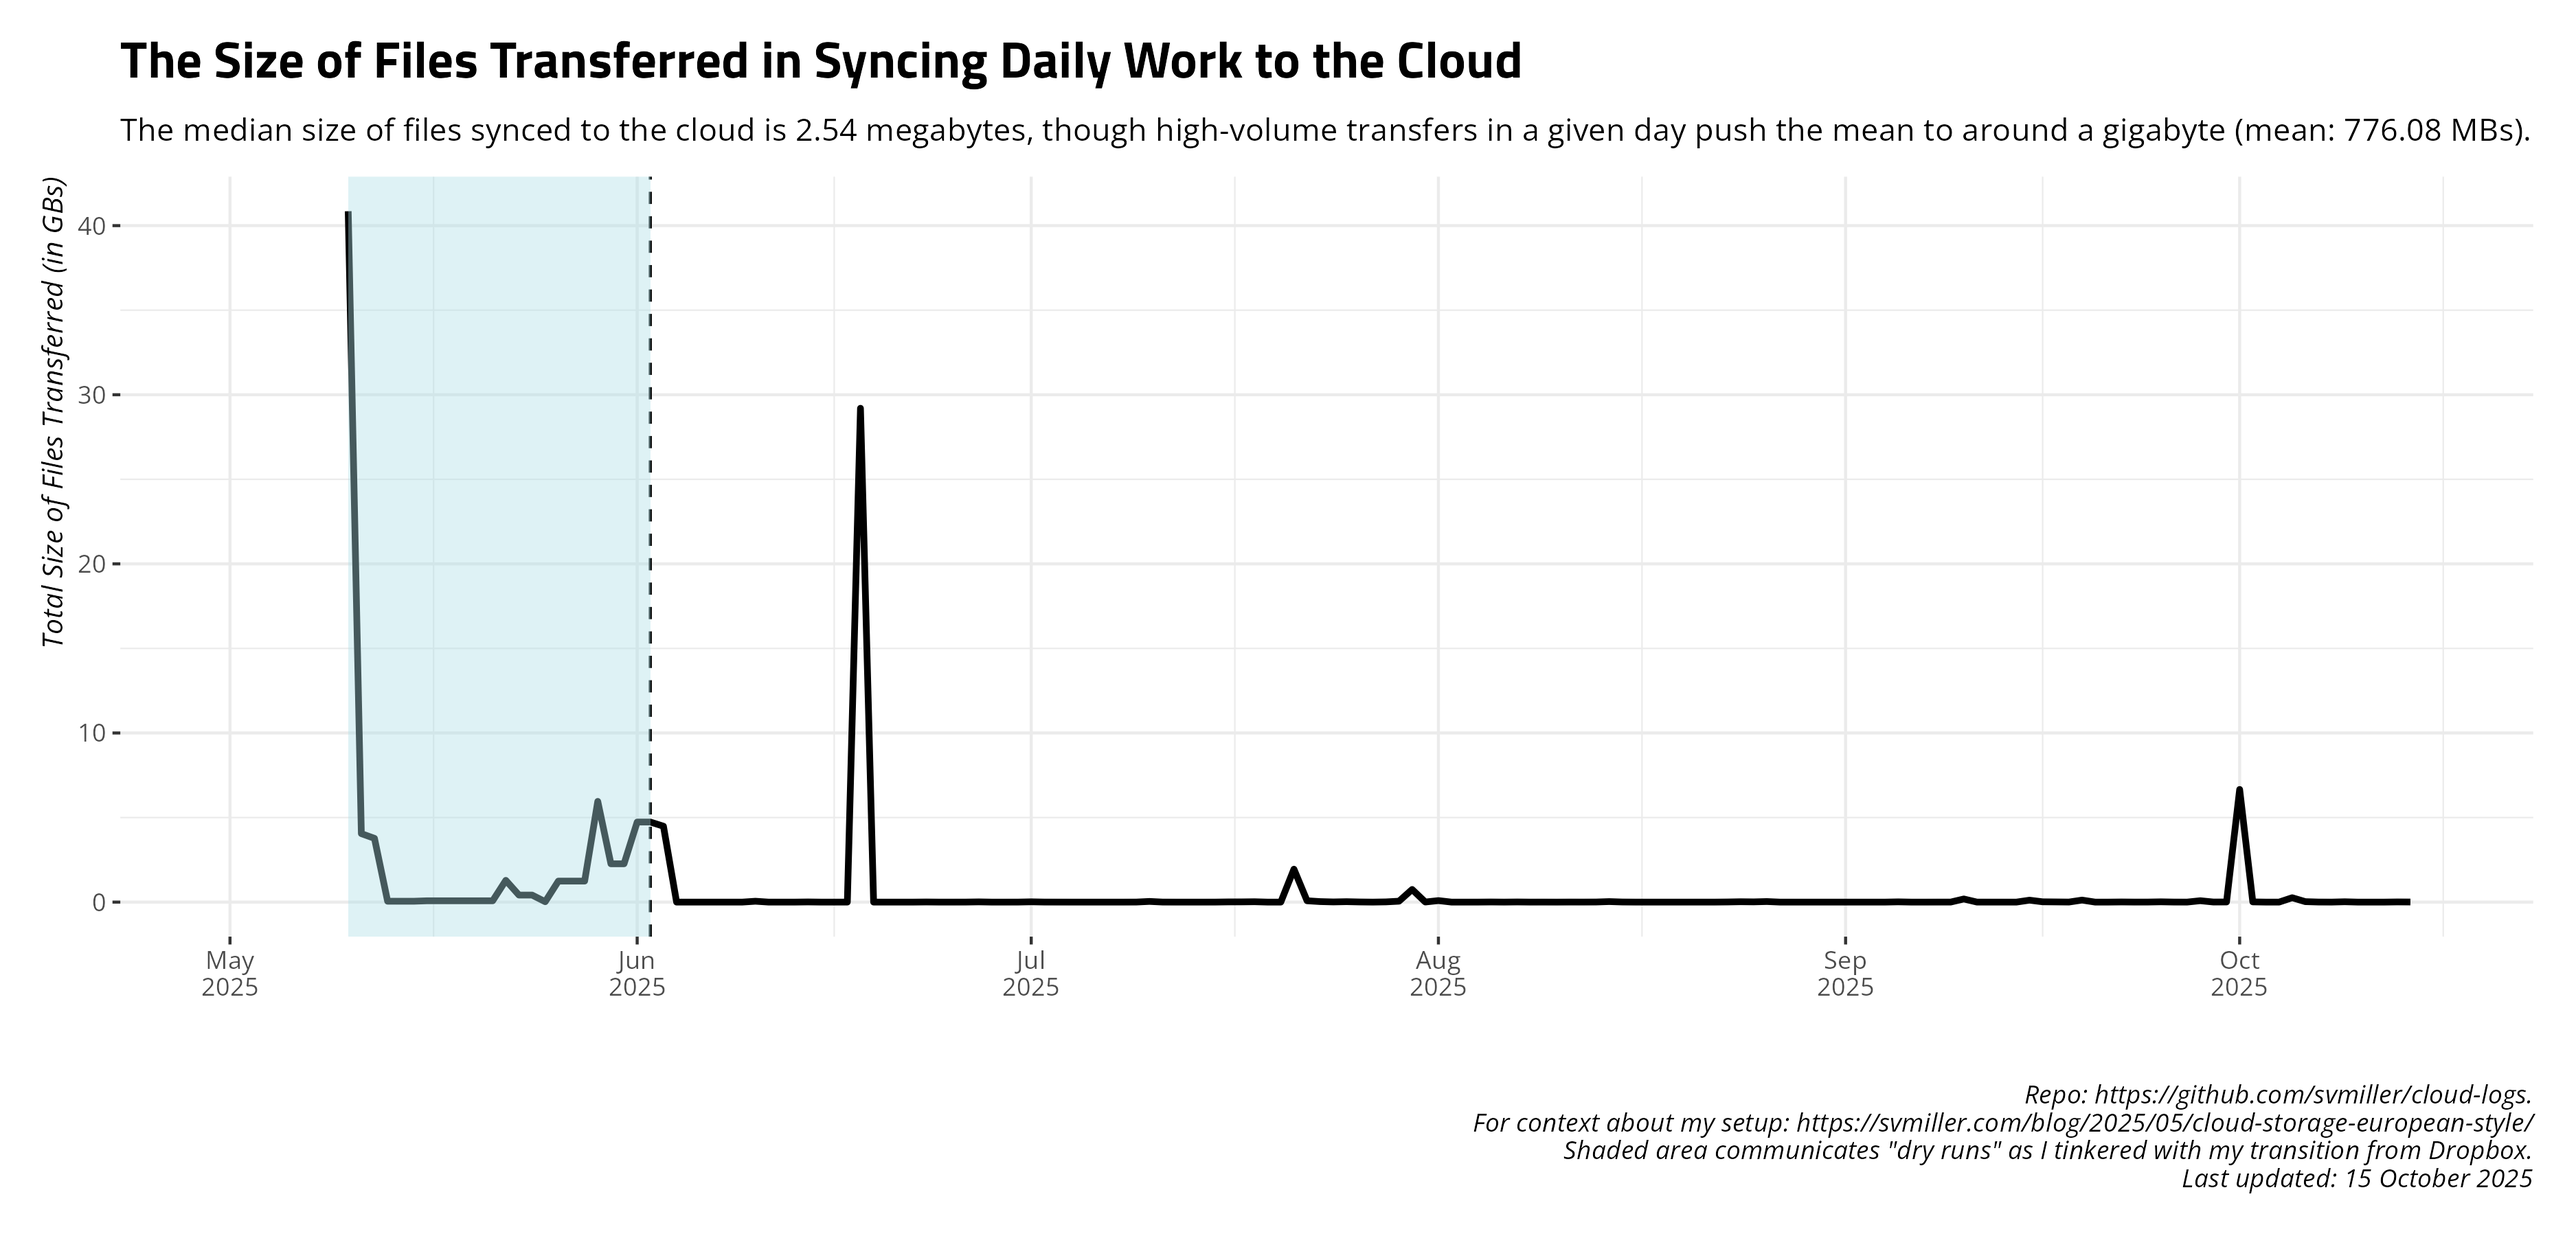
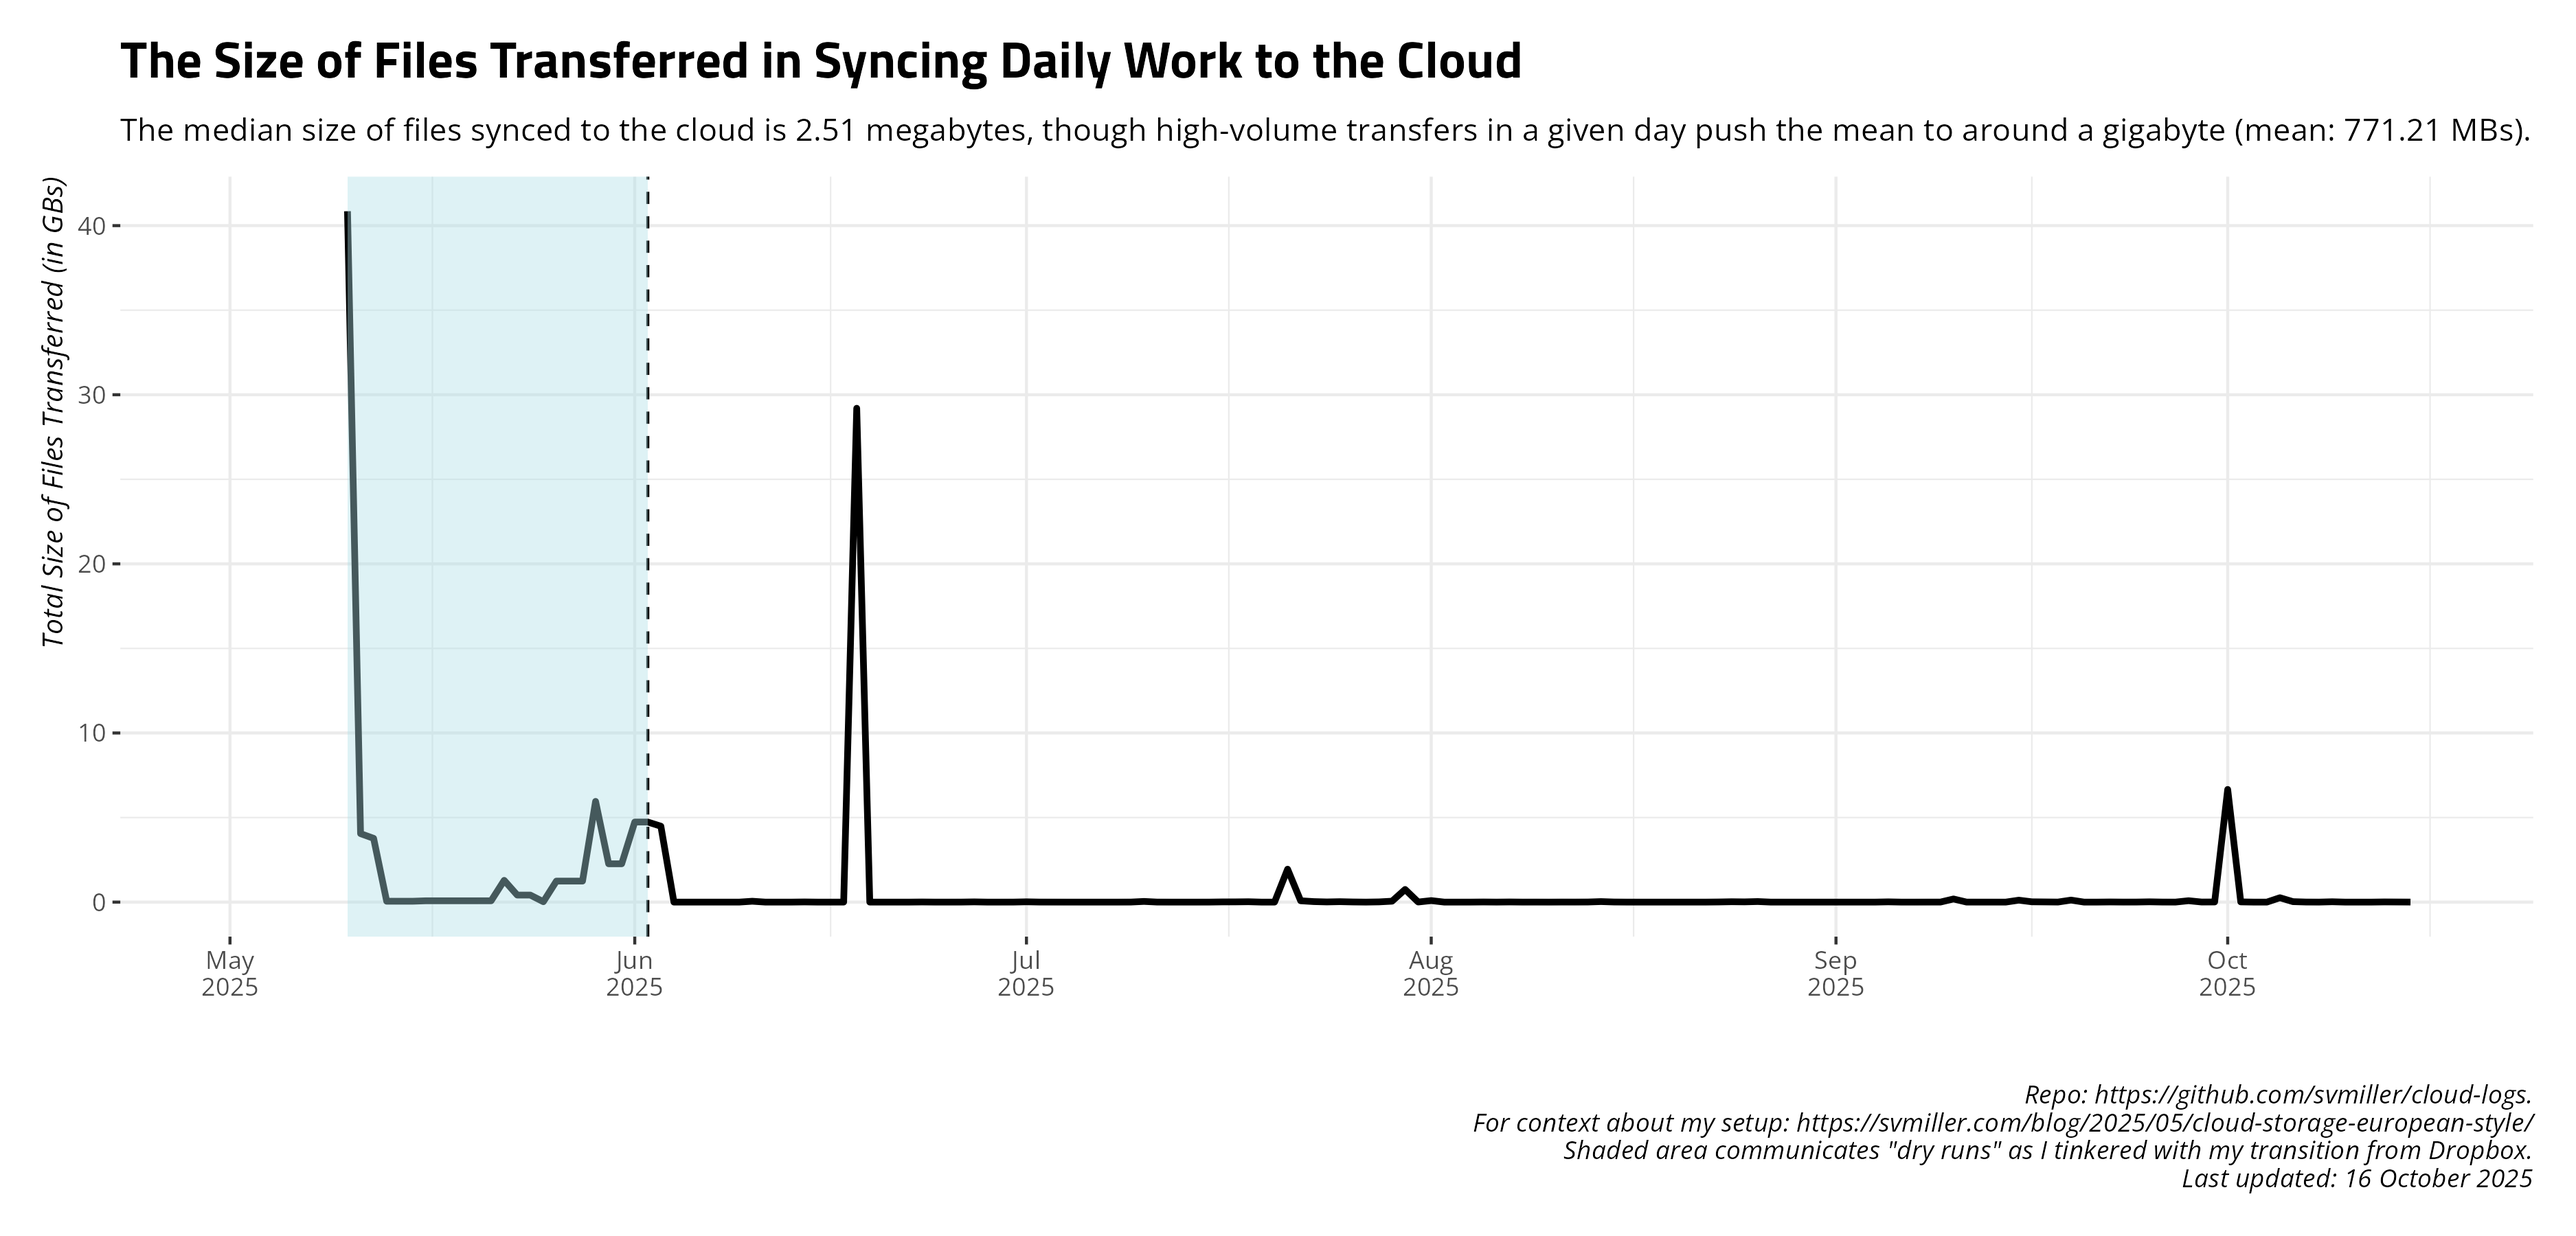
Date: 2025-10-16 09:00:14. Hi mom!

diff --git a/README.md b/README.md
@@ -27,17 +27,17 @@ and uploads to Github.
     #> # A tibble: 14 × 4
     #>    date       ftransfer stransfer   elapsed
     #>    <date>         <dbl> <chr>       <chr>  
-    #>  1 2025-10-01      2008 6.663 GiB   8m36.5s
-    #>  2 2025-10-02       182 12.916 MiB  5m33.4s
-    #>  3 2025-10-03        25 138.878 KiB 6m16.7s
-    #>  4 2025-10-04        26 501.970 KiB 4m41.6s
-    #>  5 2025-10-05       183 264.462 MiB 5m18.6s
-    #>  6 2025-10-06       240 27.655 MiB  7m58.9s
-    #>  7 2025-10-07       117 4.095 MiB   4m42.1s
-    #>  8 2025-10-08        47 591.214 KiB 5m20.9s
-    #>  9 2025-10-09        85 20.453 MiB  4m0.2s 
-    #> 10 2025-10-10        28 34.344 KiB  5m16.9s
-    #> 11 2025-10-11         0 <NA>        5m16.8s
-    #> 12 2025-10-12        19 111.027 KiB 4m24.8s
-    #> 13 2025-10-13       153 10.286 MiB  4m38.6s
-    #> 14 2025-10-14       157 6.146 MiB   4m43.3s
+    #>  1 2025-10-02       182 12.916 MiB  5m33.4s
+    #>  2 2025-10-03        25 138.878 KiB 6m16.7s
+    #>  3 2025-10-04        26 501.970 KiB 4m41.6s
+    #>  4 2025-10-05       183 264.462 MiB 5m18.6s
+    #>  5 2025-10-06       240 27.655 MiB  7m58.9s
+    #>  6 2025-10-07       117 4.095 MiB   4m42.1s
+    #>  7 2025-10-08        47 591.214 KiB 5m20.9s
+    #>  8 2025-10-09        85 20.453 MiB  4m0.2s 
+    #>  9 2025-10-10        28 34.344 KiB  5m16.9s
+    #> 10 2025-10-11         0 <NA>        5m16.8s
+    #> 11 2025-10-12        19 111.027 KiB 4m24.8s
+    #> 12 2025-10-13       153 10.286 MiB  4m38.6s
+    #> 13 2025-10-14       157 6.146 MiB   4m43.3s
+    #> 14 2025-10-15       126 2.207 MiB   4m9.6s
